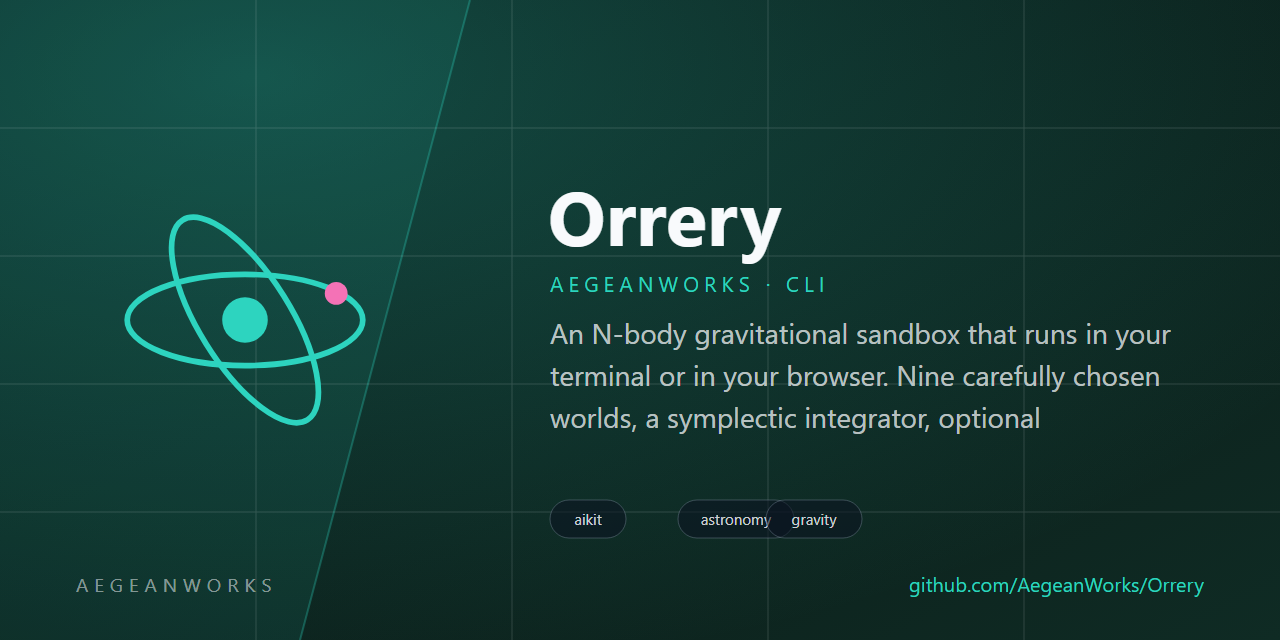
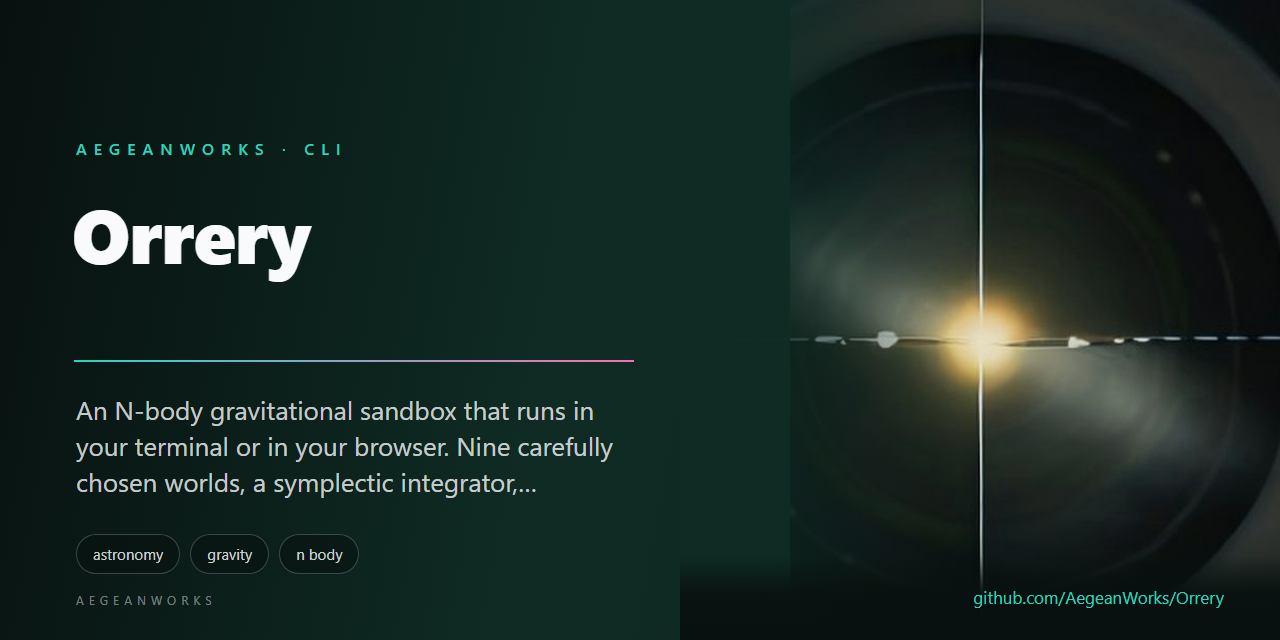
feat(brand): replace procedural marks with reviewed AI-art identities

diff --git a/README.md b/README.md
@@ -1,8 +1,8 @@
 # Orrery
 
 <!-- aegean:media:start -->
-<p align="center"><img src="assets/logo.svg" alt="Orrery logo" width="96" height="96"></p>
-<p align="center"><img src="assets/social-preview.svg" alt="Orrery social preview" width="100%"></p>
+<p align="center"><img src="assets/logo.png" alt="Orrery logo" width="96" height="96"></p>
+<p align="center"><img src="assets/social-preview.png" alt="Orrery social preview" width="100%"></p>
 <!-- aegean:media:end -->
 
 An N-body gravitational sandbox that runs in your terminal or in your browser. Nine carefully
